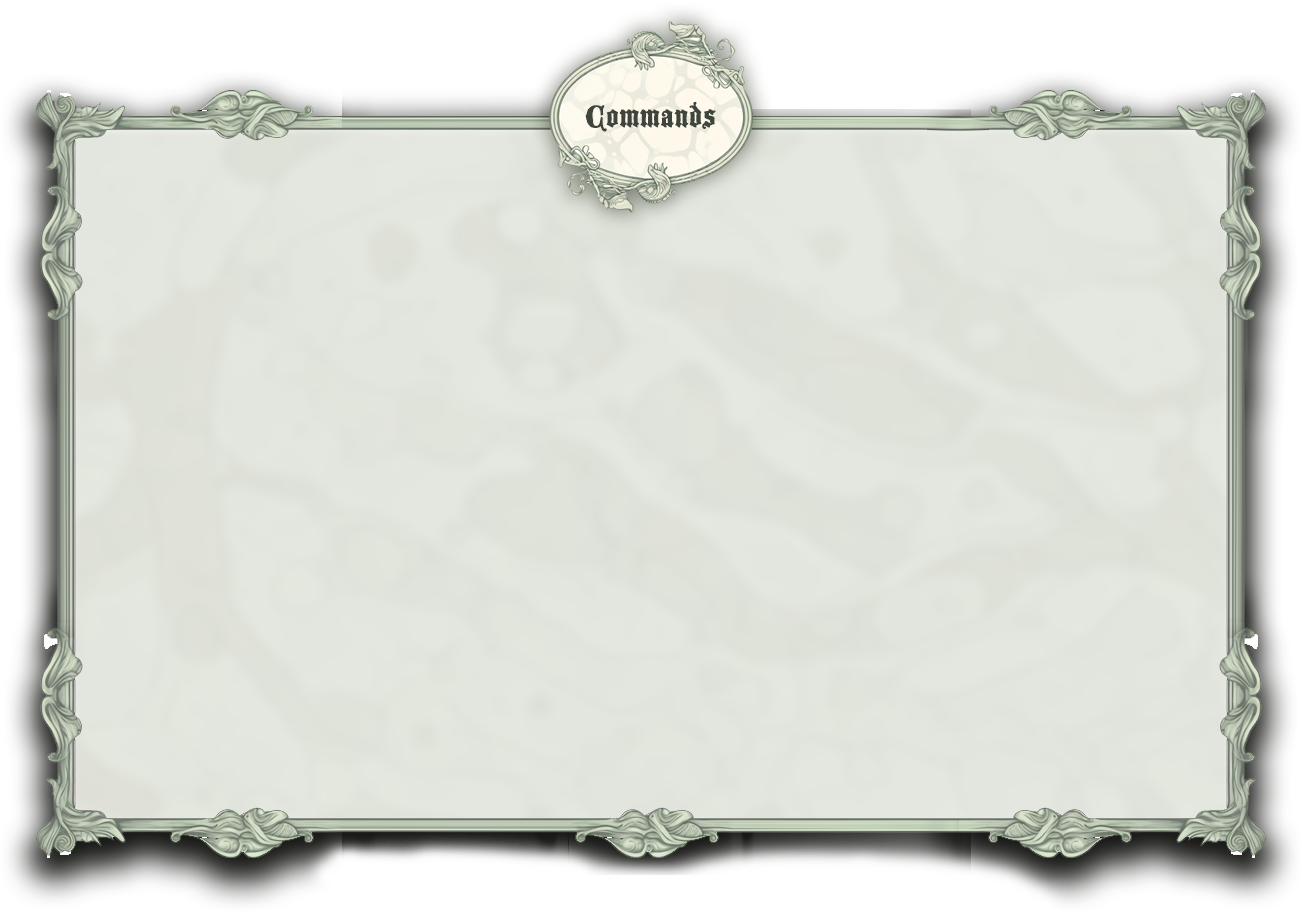
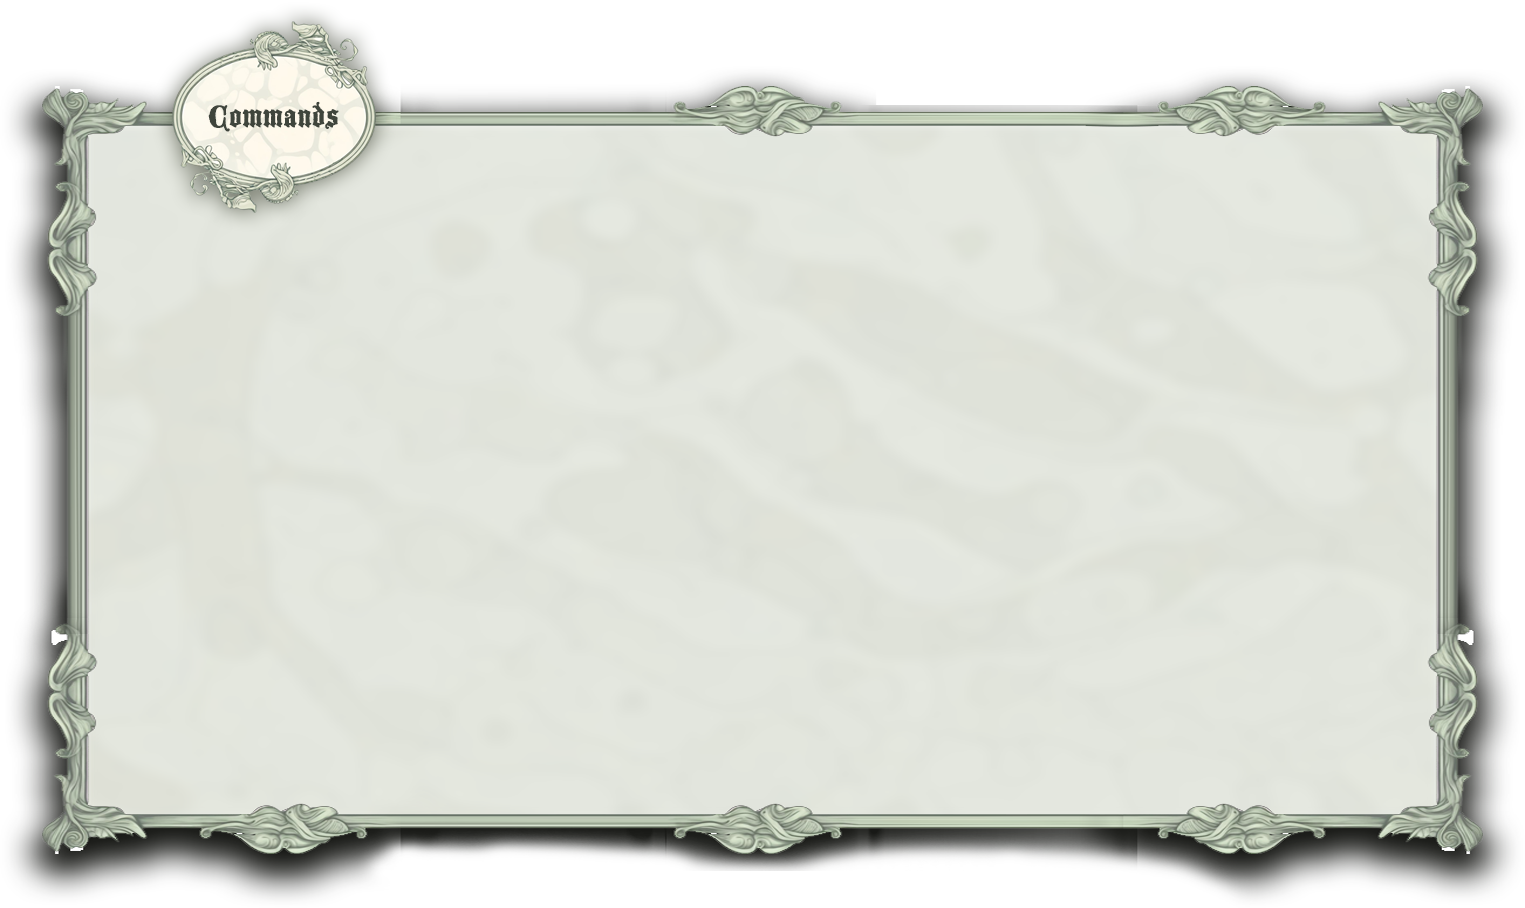
commands page.

diff --git a/client/commands.html b/client/commands.html
@@ -1,64 +1,25 @@
 <!DOCTYPE html>
 <html lang="en">
-<head>
-    <meta charset="UTF-8">
-    <meta name="viewport" content="width=device-width, initial-scale=1.0">
+  <head>
+    <meta charset="UTF-8" />
+    <meta name="viewport" content="width=device-width, initial-scale=1.0" />
     <title>Eskel Owners</title>
-    <link rel="stylesheet" href="index.css">
-</head>
-<body>
+    <link rel="stylesheet" href="index.css" />
+    <link rel="stylesheet" href="commands.css" />
+  </head>
+  <body>
     <nav>
-        <a href="index.html">Adoption</a>
-        <a href="owners.html">Owners</a>
-        <a href="my-eskel.html">My Eskel</a>
-        <div class="profile-container">
-            <div class="profile-picture"></div>
-        </div>
+      <a href="index.html">Adoption</a>
+      <a href="commands.html">Commands</a>
+      <a href="owners.html">Owners</a>
+      <a href="my-eskel.html">My Eskel</a>
+      <div class="profile-container">
+        <div class="profile-picture"></div>
+      </div>
     </nav>
 
-    <div class="pet-container pet-plant" data-id="1">
-      <div class="description">
-        <div class="id-container">
-          <span>ID </span><span class="data data-plant">1</span>
-        </div>
-        <div class="type-container">
-          <span>Type </span><span class="data data-plant">plant</span>
-        </div>
-        <div class="element-container">
-          <div class="element"></div>
-        </div>
-      </div>
-      <div class="frame base">
-        <div class="pet-img"></div>
-      </div>
-      <div class="frame evolution1">
-        <div class="frame-inner">
-          <div class="frame-front">
-            <span class="question-mark">?</span>
-          </div>
-          <div class="frame-back">
-            <!-- Back Image -->
-          </div>
-        </div>
-      </div>
-      <div class="frame evolution2">
-        <div class="frame-inner">
-          <div class="frame-front">
-            <span class="question-mark">?</span>
-          </div>
-          <div class="frame-back">
-            <span>Adopt this pet to evolve</span>
-          </div>
-        </div>
-      </div>
-      <div class="adoption">
-        <span>ADOPTION</span>
-        <input type="text" placeholder="Username" class="username" />
-        <input type="text" placeholder="Pet's Name" class="pet-name" />
-        <input type="text" placeholder="Code" class="code" />
-        <input type="date" placeholder="Birthday" class="birthday" />
-        <button class="adopt-btn">Adopt</button>
-      </div>
+    <div class="commands-container" data-id="1">
+      
     </div>
 
     <script>

diff --git a/client/my-eskel.html b/client/my-eskel.html
@@ -1,19 +1,20 @@
 <!DOCTYPE html>
 <html lang="en">
-<head>
-    <meta charset="UTF-8">
-    <meta name="viewport" content="width=device-width, initial-scale=1.0">
+  <head>
+    <meta charset="UTF-8" />
+    <meta name="viewport" content="width=device-width, initial-scale=1.0" />
     <title>Eskel Owners</title>
-    <link rel="stylesheet" href="index.css">
-</head>
-<body>
+    <link rel="stylesheet" href="index.css" />
+  </head>
+  <body>
     <nav>
-        <a href="index.html">Adoption</a>
-        <a href="owners.html">Owners</a>
-        <a href="my-eskel.html">My Eskel</a>
-        <div class="profile-container">
-            <div class="profile-picture"></div>
-        </div>
+      <a href="index.html">Adoption</a>
+      <a href="commands.html">Commands</a>
+      <a href="owners.html">Owners</a>
+      <a href="my-eskel.html">My Eskel</a>
+      <div class="profile-container">
+        <div class="profile-picture"></div>
+      </div>
     </nav>
 
     <div class="pet-container pet-plant" data-id="1">

diff --git a/client/index.css b/client/index.css
@@ -30,8 +30,8 @@ nav {
     top: 1vw;
     right: 1vw;
     position: fixed;
-    width: 46%;
-    height: 18%;
+    width: 45%;
+    height: 12%;
     /* background-color: rebeccapurple; */
     margin: 0;
     padding: 0;
@@ -40,7 +40,7 @@ nav {
     z-index: 999;
     background-image: url(img/nav-bg.png);
     background-repeat: no-repeat;
-    background-size: 80% 100%;
+    background-size: 90% 100%;
     background-position: left;
 }
 
@@ -63,7 +63,7 @@ a:hover {
 .profile-container {
     position: absolute;
     width: 12vw;
-    height: 30vh;
+    height: 25vh;
     right: 0;
     top: 0;
     background-image: url(img/profile-picture/profile-frame.png);
@@ -76,8 +76,8 @@ a:hover {
 }
 
 .profile-picture {
-    width: 50%;
-    height: 50%;
+    width: 45%;
+    height: 45%;
     background-image: url(img/pets/pet-5.png);
     background-repeat: no-repeat;
     background-size: contain;

diff --git a/client/owners.html b/client/owners.html
@@ -7,14 +7,15 @@
     <link rel="stylesheet" href="index.css">
 </head>
 <body>
-    <nav>
-        <a href="index.html">Adoption</a>
-        <a href="owners.html">Owners</a>
-        <a href="my-eskel.html">My Eskel</a>
-        <div class="profile-container">
-            <div class="profile-picture"></div>
-        </div>
-    </nav>
+  <nav>
+    <a href="index.html">Adoption</a>
+    <a href="commands.html">Commands</a>
+    <a href="owners.html">Owners</a>
+    <a href="my-eskel.html">My Eskel</a>
+    <div class="profile-container">
+        <div class="profile-picture"></div>
+    </div>
+</nav>
 
     <div class="pet-container pet-plant" data-id="1">
       <div class="description">

diff --git a/client/commands.css b/client/commands.css
@@ -1,0 +1,11 @@
+.commands-container {
+    width: 80vw;
+    height: 90vh;
+    /* background-color: red; */
+    margin: 0 auto;
+    margin-top: 8vh;
+    background-image: url(img/bg-commands.png);
+    background-position: center;
+    background-size: contain;
+    background-repeat: no-repeat;
+}
